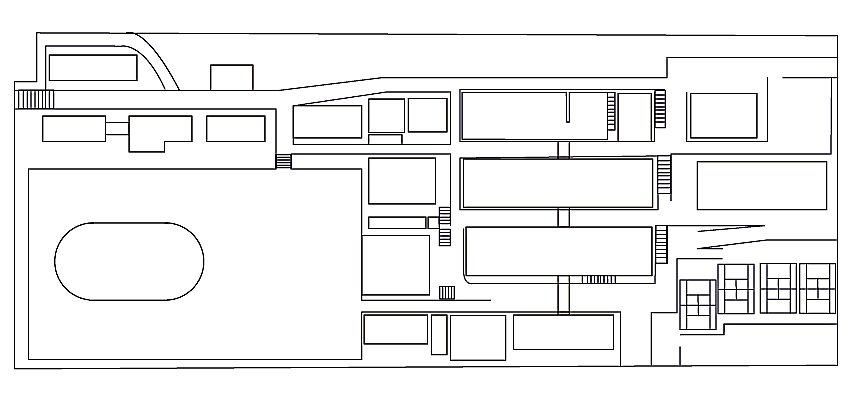
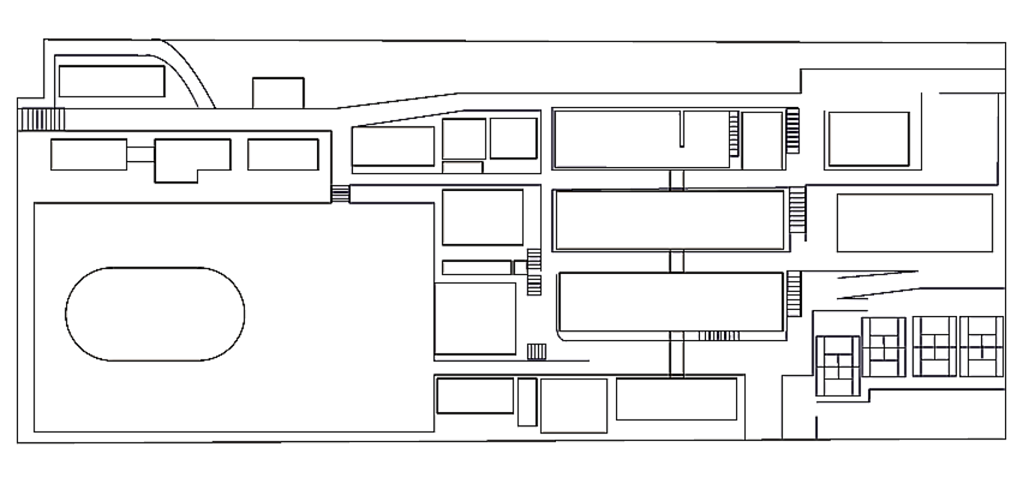
bad

diff --git a/map_test/async_Test/test_main.js b/map_test/async_Test/test_main.js
@@ -4,22 +4,41 @@ function init() {
   // Canvas / Stage 定義
   var canvasContainer = document.getElementById("wrap");
   var canvasElement = document.getElementById("myCanvas");
+  // サイズ調整
+  var Sizing = function(){
+    canvasElement.height = canvasContainer.offsetHeight;
+    canvasElement.width  = canvasContainer.offsetWidth;
+  };
   Sizing();
+  // stageの宣言
   var stage = new createjs.StageGL(canvasElement);
-  stage.setClearColor('#FFFFFF')
+  stage.setClearColor('#FFFFFF');
+  // 画像の読み込み
   var bmp = new createjs.Bitmap("./../imgs/base.png");
-  var rect = new createjs.Shape();
   //画像を画面いっぱいのサイズに
   SizeMaxBitmap(bmp);
-  //bmp.y=0;
+  // rectの宣言
+  var rect = new createjs.Shape();
   rect.graphics.beginFill("DarkRed"); // 赤色で描画するように設定
   rect.graphics.drawRect(0, 0, 100, 200);
-  //rect.scaleX = bmp.scaleX;
-  //rect.scaleY = bmp.scaleY;
-  rect.x = bmp.x * bmp.scaleX + parseInt(420);
-  rect.y=bmp.y * bmp.scale+parseInt(200);
-  
-  rect.alpha = 0.5;
+  // async - await
+  function GetBitmapWidth(bmp){
+    return new Promise((resolve,reject) => {
+      bmp.image.onload = function(){
+        resolve(bmp.width);
+      };
+    });
+  }
+  async function SizeMaxBitmap(bmp){
+    const bmp1 = GetBitmapWidth(bmp);
+    const width1 = await bmp1;
+    // widthがこの下から使えるぞ
+    bmp.scaleX = canvasElement.width / width1;
+    bmp.scaleY = bmp.scaleX;
+    rect.x = bmp.x * bmp.scaleX + parseInt(420);
+    rect.y =bmp.y * bmp.scale+parseInt(200);
+    rect.alpha = 0.5;
+  }
   var rectContainer   = new createjs.Container();
   rectContainer.addChild(rect);
   var DisplayContainer = new createjs.Container();
@@ -36,23 +55,7 @@ function init() {
   createjs.Ticker.on("tick",function(){
     stage.update();
     DisplayContainer.updateCache();
-  });
-
-  function Sizing(){
-    canvasElement.height = canvasContainer.offsetHeight;
-    canvasElement.width  = canvasContainer.offsetWidth;
-  }
-  function SizeMaxBitmap(bmp){
-    bmp.image.onload = function(){
-      bmp.scaleX = canvasElement.width / this.width;
-      bmp.scaleY = bmp.scaleX;
-      // x,yの位置に画像の中央が表示されるように設定
-      //bmp.regX = bmp.getBounds().width / 2;
-      //bmp.regY = bmp.getBounds().height / 2;
-    };
-  }
-    
-    
+  });    
   // Click
   function handleClick(event){
     alert("red Zone");

diff --git a/map_test/async_Test/index.html b/map_test/async_Test/index.html
@@ -1,0 +1,17 @@
+<!-- https://ics.media/tutorial-createjs/fullscreen.html -->
+<html>
+<head>
+    <meta charset="utf-8"/>
+    <!-- <meta name="viewport" content="width=device-width, initial-scale=1"/> -->
+    <!-- webページの拡大縮小を防ぐ -->
+    <link rel = "stylesheet" href="test_main.css">
+    <script src="test_main.js"></script>
+    <script src="https://code.createjs.com/1.0.0/createjs.min.js"></script>
+</head>
+<body>
+    <div id = "wrap">
+        <canvas id = "myCanvas">
+        </canvas>
+    </div>
+</body>
+</html>

diff --git a/map_test/async_Test/test_main.css b/map_test/async_Test/test_main.css
@@ -1,0 +1,19 @@
+html,
+body {
+    margin: 0;
+    overflow: scroll;
+    width: 100%;
+    height:100%;
+}
+
+#myCanvas {
+    
+    width: 100%;
+    height : 100%;
+}
+
+#canvas{
+    display : block;
+    justify-content: center;
+    align-items: center;
+}
